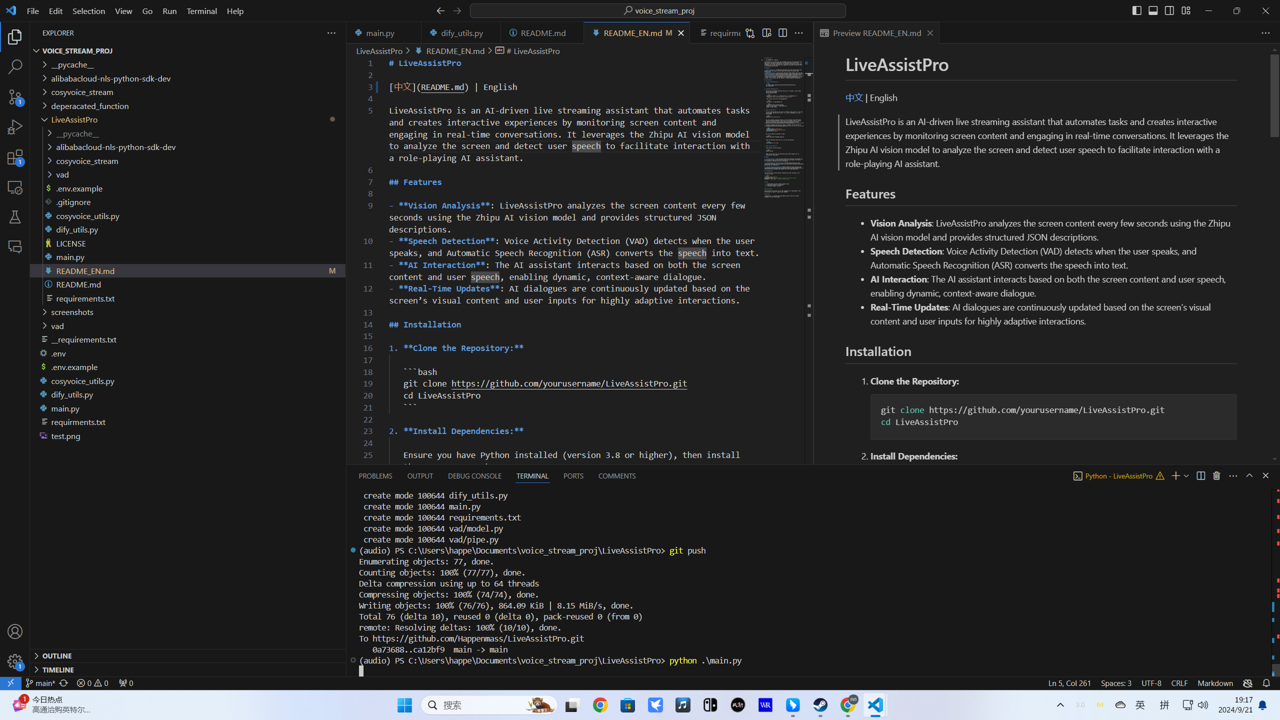
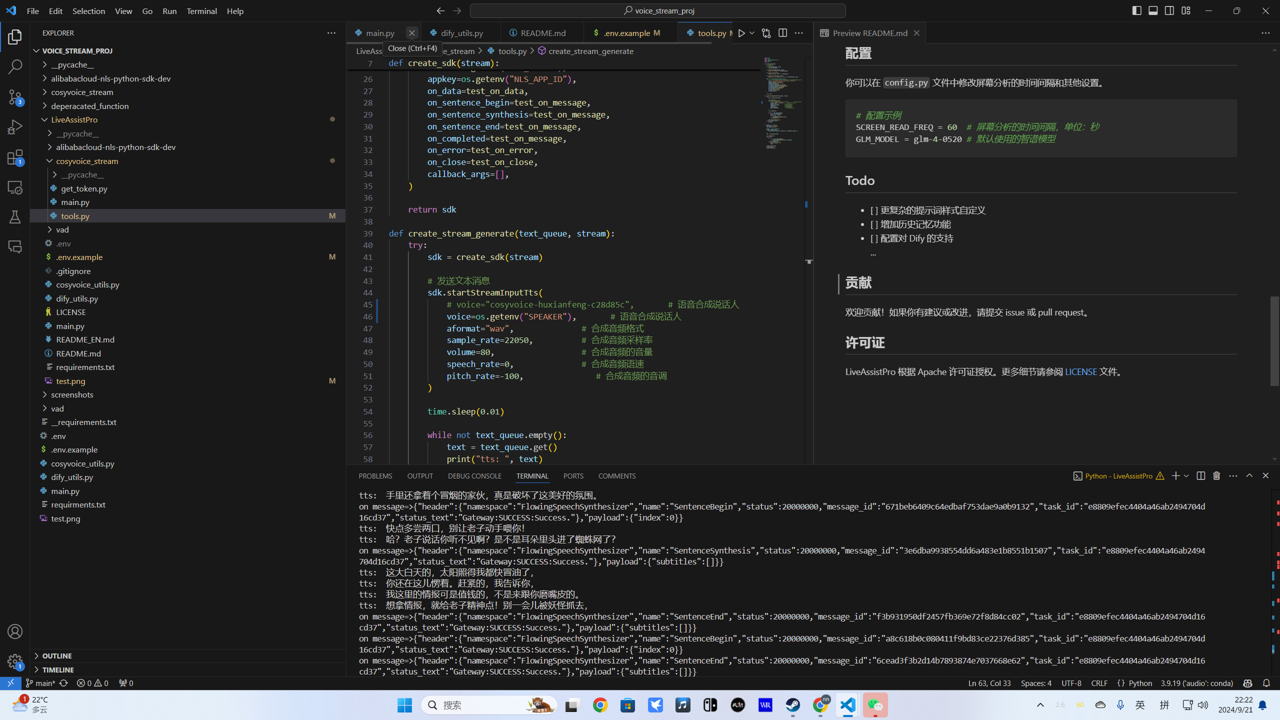
update speaker chioce

diff --git a/cosyvoice_stream/tools.py b/cosyvoice_stream/tools.py
@@ -42,7 +42,8 @@ def create_stream_generate(text_queue, stream):
 
         # 发送文本消息
         sdk.startStreamInputTts(
-            voice="cosyvoice-huxianfeng-c28d85c",       # 语音合成说话人
+            # voice="cosyvoice-huxianfeng-c28d85c",       # 语音合成说话人
+            voice=os.getenv("SPEAKER"),       # 语音合成说话人
             aformat="wav",              # 合成音频格式
             sample_rate=22050,          # 合成音频采样率
             volume=80,                  # 合成音频的音量
